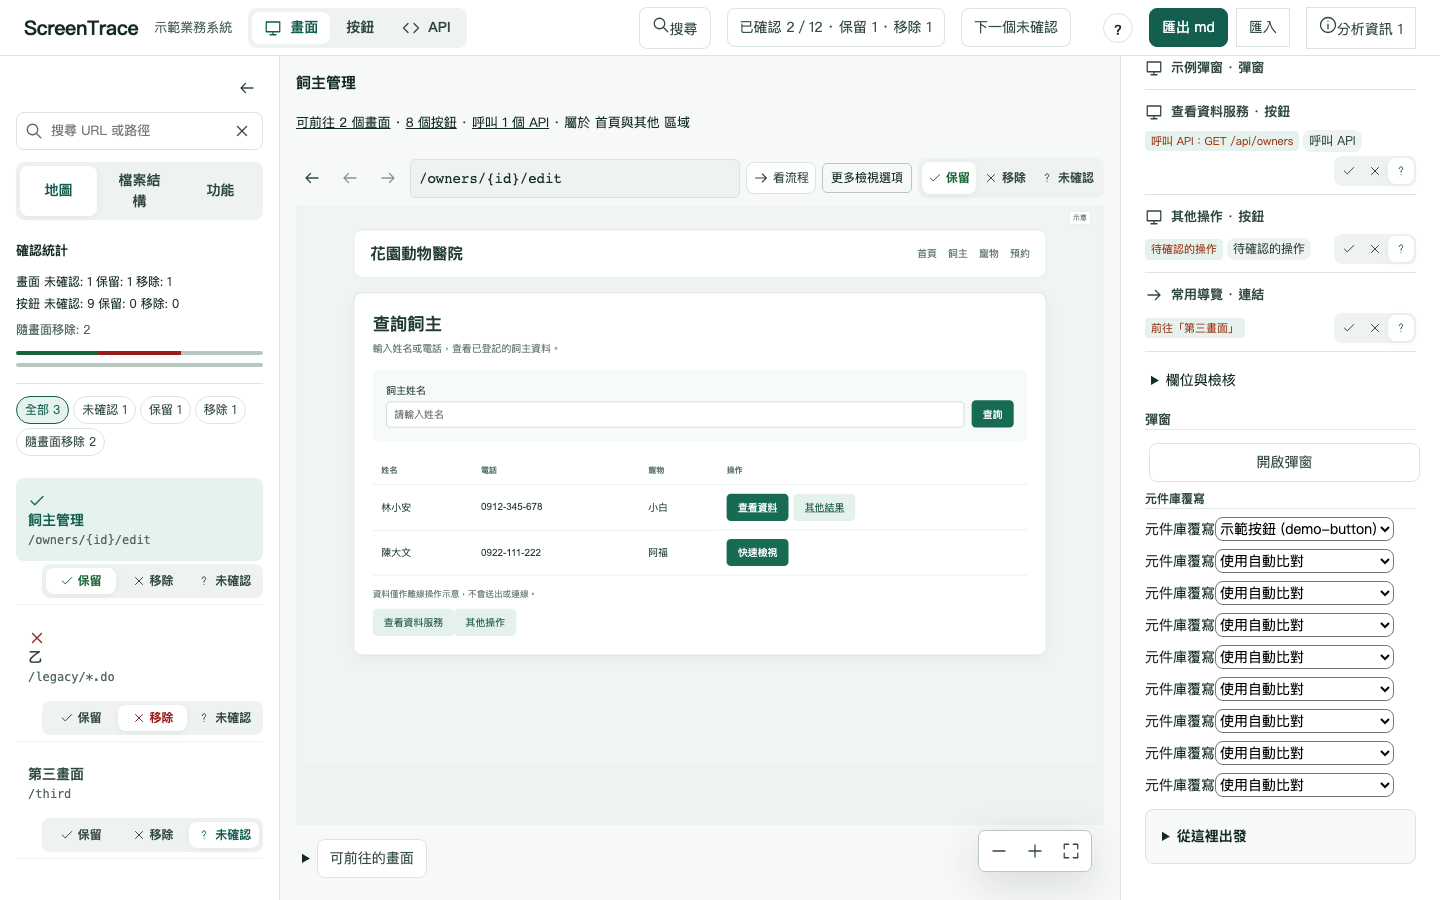
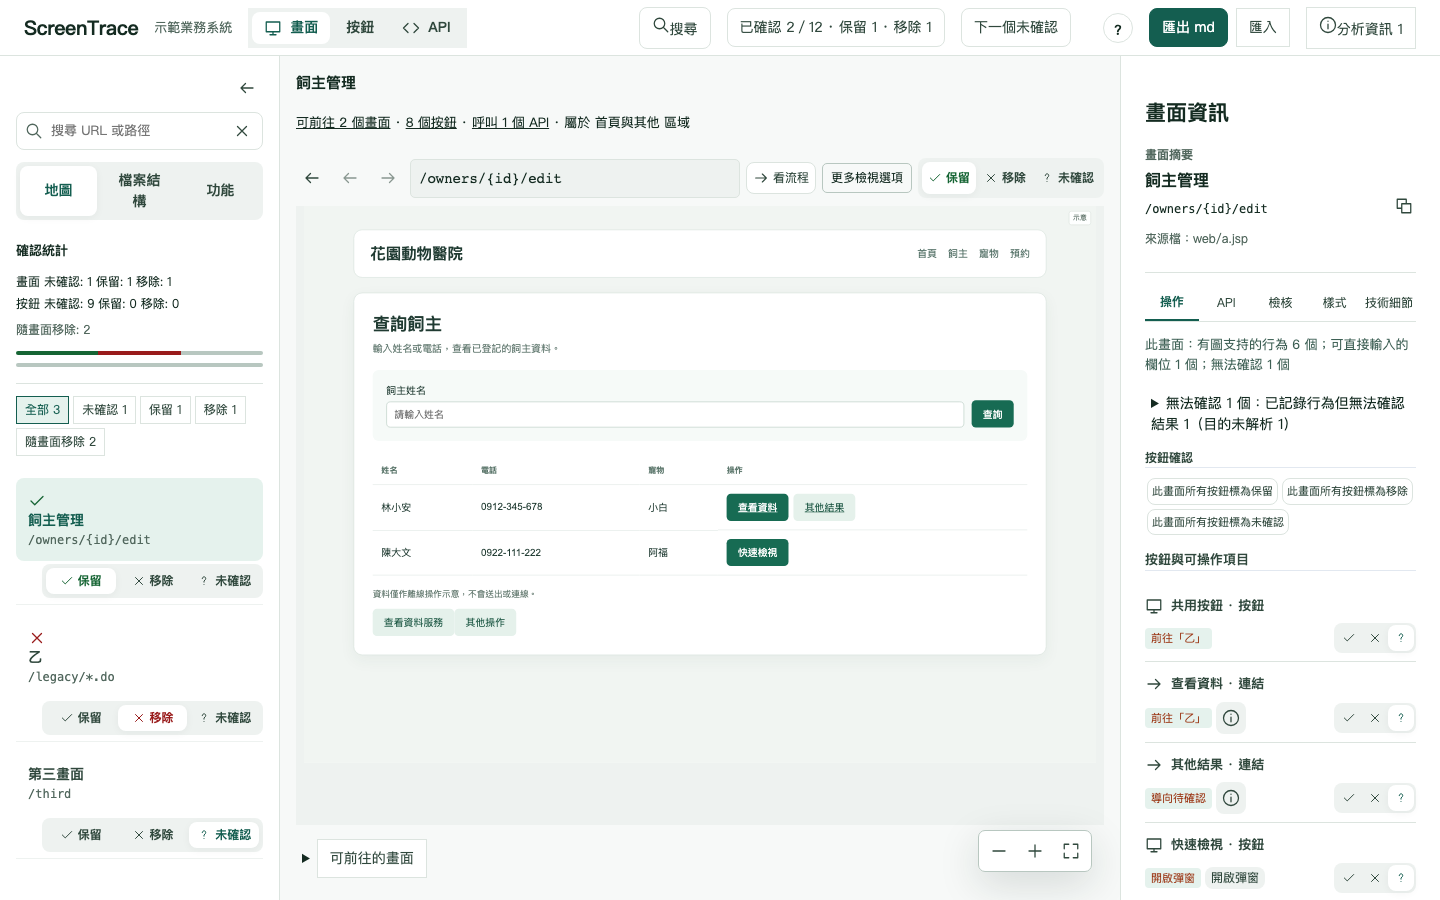
WP38: stabilize screenshots and flow tree
Reset scroll state and wait for fonts, previews, images, animations, and DOM quiet before guide captures; stabilize raster edges and verify byte-identical output. Render the flow outline as a bounded tree with one expansion per destination, merged unresolved outcomes, and readable trigger labels.

Validated with 10 consecutive guide-shots runs (20 PNGs each), viewer and capture suites, and mvn -B clean verify.

Changed region(s): [[0.7812, 0.0622, 1.0, 0.9956], [0.0312, 0.4356, 0.0625, 0.4667]]

diff --git a/screentrace-viewer/src/flow-outline.ts b/screentrace-viewer/src/flow-outline.ts
@@ -1,30 +1,57 @@
 import {Index} from './map';
 import {focusedRelations} from './relations';
 import {partitionNavigation} from './overview';
+import {Node} from './contracts';
+import {componentLabel,kindName} from './labels';
 import {element} from './text';
 
-export interface FlowOutlineNode {id:string;label:string;triggers:string[];children:FlowOutlineNode[];cycle:boolean;unresolved:boolean;more:number;overflow:FlowOutlineNode[]}
-export interface FlowOutline {root:string;depth:number;nodes:FlowOutlineNode[];more:number;overflow:FlowOutlineNode[]}
+export interface FlowOutlineNode {id:string;label:string;triggers:string[];children:FlowOutlineNode[];alreadyExpanded:boolean;unresolved:boolean;canNavigate:boolean;more:number;overflow:FlowOutlineNode[]}
+export interface FlowOutline {root:string;rootLabel:string;depth:number;nodes:FlowOutlineNode[];more:number;overflow:FlowOutlineNode[]}
 const order=(a:string,b:string)=>a<b?-1:a>b?1:0;
+const internalName=(value:string|undefined,id:string)=>!value||value===id||/^[a-z][a-z0-9]*(?:[-_][a-z0-9]+)+(?:\.[a-z0-9]+)?$/.test(value)||/^(?:表單|連結|按鈕|下拉選單|核取方塊|單選欄位|文字欄位|文字區域)\s*\d+$/.test(value);
+export const publicTriggerName=(value:string)=>{if(!internalName(value,''))return value;const type=/^(表單|連結|按鈕|下拉選單|核取方塊|單選欄位|文字欄位|文字區域)\s*\d+$/.exec(value);return type?`${type[1]}（所在畫面）`:'可操作項目（所在畫面）';};
 
-/** Stable, bounded tree of evidence-backed non-global navigation from a screen. */
+function triggerName(index:Index,id:string,fallback:number):string{
+ const node=index.nodes.get(id);if(!node)return '可操作項目';
+ const a=node.attributes,visible=[a.visibleText,a.displayName,(node as Node&{displayLabel?:string}).displayLabel,a['aria-label'],a.label,a.text,a.value,a.title]
+  .find(value=>typeof value==='string'&&!internalName(value,id)&&!/[\r\n]/.test(value));
+ const source=node.source,line=source?.line;
+ if(visible)return componentLabel({...node,name:String(visible),displayLabel:String(visible)},fallback);
+ if(!internalName(node.name,id)){const labels=new Set(['visibleText','displayName','aria-label','label','text','value','title','name','id']),attributes=Object.fromEntries(Object.entries(a).filter(([key,value])=>!(labels.has(key)&&internalName(value,id))));return componentLabel({...node,attributes},fallback);}
+ const screenOwners=(ownerId:string,seen=new Set<string>()):string[]=>{if(seen.has(ownerId))return[];seen.add(ownerId);const owner=index.nodes.get(ownerId);if(owner?.type==='SCREEN')return owner.name&&!internalName(owner.name,owner.id)?[owner.name]:[];return(index.owners.get(ownerId)||[]).flatMap(parent=>screenOwners(parent,seen));};
+ const ownerNames=[...new Set((index.owners.get(id)||[]).flatMap(owner=>screenOwners(owner)))],location=ownerNames.length?`畫面 ${ownerNames.join('、')}${line?`，第 ${line} 行`:''}`:`流程中的第 ${fallback} 個項目${line?`，第 ${line} 行`:''}`;
+ return `${kindName(node)}（${location}）`;
+}
+
+/** Stable, bounded tree of evidence-backed non-global navigation. Each destination is expanded once. */
 export function buildFlowOutline(index:Index,root:string,maxDepth=4,maxWidth=8):FlowOutline {
  const flows=partitionNavigation(index).flows,capDepth=Math.max(0,Math.min(4,Math.floor(maxDepth))),capWidth=Math.max(1,Math.min(8,Math.floor(maxWidth)));
- const label=(id:string)=>index.nodes.get(id)?.name||'無法確認的目的';
- const make=(screenId:string,depth:number,path:Set<string>):{nodes:FlowOutlineNode[];more:number;overflow:FlowOutlineNode[]}=>{
+ const screenLabel=(id:string)=>index.nodes.get(id)?.name||'無法確認的目的';
+ const triggerOrder=new Map<string,number>();
+ const components=[...index.owners.keys()].sort((a,b)=>{const x=index.nodes.get(a)?.source,y=index.nodes.get(b)?.source;return order(x?.file||'',y?.file||'')||(x?.line||0)-(y?.line||0)||order(a,b);});
+ components.forEach((id,i)=>triggerOrder.set(id,i+1));
+ const nameTriggers=(ids:string[])=>[...new Set(ids)].map(id=>triggerName(index,id,triggerOrder.get(id)||1)).sort(order);
+ const expanded=new Set<string>([root]);
+ const make=(screenId:string,depth:number):{nodes:FlowOutlineNode[];more:number;overflow:FlowOutlineNode[]}=>{
   if(depth>=capDepth)return {nodes:[],more:0,overflow:[]};
-  const known=flows.filter(relation=>relation.from===screenId).sort((a,b)=>order(label(a.to),label(b.to))||order(a.to,b.to));
+  const known=flows.filter(relation=>relation.from===screenId).map(relation=>({id:relation.to,label:screenLabel(relation.to),triggers:nameTriggers(relation.triggers),unresolved:false}));
   const unknown=focusedRelations(index,screenId).filter(relation=>relation.unresolved);
-  const rows=[...known.map(relation=>({id:relation.to,label:label(relation.to),triggers:relation.triggers.map(label).sort(order),unresolved:false})),...unknown.map(relation=>({id:relation.to,label:'無法確認的目的',triggers:relation.triggers.map(label).sort(order),unresolved:true}))].sort((a,b)=>order(a.label,b.label)||order(a.id,b.id)||order(a.triggers.join('\0'),b.triggers.join('\0')));
-  const build=(row:typeof rows[number]):FlowOutlineNode=>{const cycle=!row.unresolved&&path.has(row.id),childPath=new Set(path);childPath.add(row.id);const nested=!row.unresolved&&!cycle?make(row.id,depth+1,childPath):{nodes:[],more:0,overflow:[]};return {id:row.id,label:cycle?`${row.label}（回到已出現的畫面）`:row.label,triggers:row.triggers,children:nested.nodes,cycle,unresolved:row.unresolved,more:nested.more,overflow:nested.overflow};};
+  const rows=[...known];if(unknown.length)rows.push({id:`unresolved:${screenId}`,label:'無法確認的目的',triggers:nameTriggers(unknown.flatMap(relation=>relation.triggers)),unresolved:true});
+  rows.sort((a,b)=>order(a.label,b.label)||order(a.id,b.id)||order(a.triggers.join('\0'),b.triggers.join('\0')));
+  const build=(row:typeof rows[number]):FlowOutlineNode=>{
+   if(row.unresolved)return {id:row.id,label:row.label,triggers:row.triggers,children:[],alreadyExpanded:false,unresolved:true,canNavigate:false,more:0,overflow:[]};
+   const alreadyExpanded=expanded.has(row.id);if(!alreadyExpanded)expanded.add(row.id);
+   const nested=!alreadyExpanded?make(row.id,depth+1):{nodes:[],more:0,overflow:[]};
+   return {id:row.id,label:alreadyExpanded?`${row.label}（已在上面展開）`:row.label,triggers:row.triggers,children:nested.nodes,alreadyExpanded,unresolved:false,canNavigate:true,more:nested.more,overflow:nested.overflow};
+  };
   const all=rows.map(build);return {nodes:all.slice(0,capWidth),more:Math.max(0,rows.length-capWidth),overflow:all.slice(capWidth)};
  };
- const result=make(root,0,new Set([root]));return {root,depth:capDepth,nodes:result.nodes,more:result.more,overflow:result.overflow};
+ const result=make(root,0);return {root,rootLabel:screenLabel(root),depth:capDepth,nodes:result.nodes,more:result.more,overflow:result.overflow};
 }
 
 export function flowOutlineView(index:Index,root:string,onNavigate:(screenId:string)=>void):HTMLElement {
  const outline=buildFlowOutline(index,root),section=element('details',undefined,'flow-outline');section.dataset.flowOutline='true';const summary=element('summary','從這裡出發');section.append(summary);
- const list=element('ol',undefined,'flow-outline-list');
- const append=(parent:HTMLOListElement,node:FlowOutlineNode)=>{const row=element('li',undefined,'flow-outline-node');row.dataset.flowNode=node.id;const action=element('button',node.label,'flow-outline-link');action.disabled=node.unresolved||node.cycle;if(!action.disabled)action.onclick=()=>onNavigate(node.id);row.append(action);if(node.triggers.length)row.append(element('span',`—[${node.triggers.join('、')}]→`,'flow-outline-triggers'));if(node.children.length){const children=element('ol');for(const child of node.children)append(children,child);row.append(children);}if(node.more){const more=element('details',undefined,'flow-outline-more');more.append(element('summary',`還有 ${node.more} 個`));const rest=element('ol');for(const child of node.overflow)append(rest,child);more.append(rest);row.append(more);}parent.append(row);};
- for(const node of outline.nodes)append(list,node);if(outline.more){const more=element('details',undefined,'flow-outline-more');more.append(element('summary',`還有 ${outline.more} 個`));const rest=element('ol');for(const node of outline.overflow)append(rest,node);more.append(rest);list.append(more);}if(!outline.nodes.length)list.append(element('li','沒有已知流程'));section.append(list);return section;
+ const tree=element('ol',undefined,'flow-outline-tree'),rootNode=element('li',undefined,'flow-outline-root');rootNode.dataset.flowRoot=outline.root;rootNode.append(element('strong',outline.rootLabel));const children=element('ol',undefined,'flow-outline-list');
+ const append=(parent:HTMLOListElement,node:FlowOutlineNode)=>{const row=element('li',undefined,'flow-outline-node');row.dataset.flowNode=node.id;if(node.unresolved)row.dataset.unresolved='true';if(node.alreadyExpanded)row.dataset.alreadyExpanded='true';const action=element('button',node.label,'flow-outline-link');action.disabled=!node.canNavigate;if(node.canNavigate)action.onclick=()=>onNavigate(node.id);row.append(action);if(node.triggers.length)row.append(element('span',`由「${node.triggers.map(publicTriggerName).join('、')}」前往`,'flow-outline-triggers'));if(node.children.length){const nested=element('ol');for(const child of node.children)append(nested,child);row.append(nested);}if(node.more){const more=element('details',undefined,'flow-outline-more');more.append(element('summary',`還有 ${node.more} 個`));const rest=element('ol');for(const child of node.overflow)append(rest,child);more.append(rest);row.append(more);}parent.append(row);};
+ for(const node of outline.nodes)append(children,node);if(outline.more){const more=element('details',undefined,'flow-outline-more');more.append(element('summary',`還有 ${outline.more} 個`));const rest=element('ol');for(const node of outline.overflow)append(rest,node);more.append(rest);children.append(more);}if(!outline.nodes.length)children.append(element('li','沒有已知流程'));rootNode.append(children);tree.append(rootNode);section.append(tree);return section;
 }

diff --git a/docs/reports/R10.md b/docs/reports/R10.md
@@ -149,11 +149,11 @@ ADR：[0057 全站導覽語意身份](../adr/0057-global-navigation-semantic-ide
 
 全域搜尋可由頂列按鈕或 `Ctrl／⌘＋K` 開啟，分組搜尋畫面名稱／URL、按鈕與 API 方法／路徑；選取後跳轉並標示目標。為保留既有操作，`/` 繼續聚焦畫面清單搜尋欄；API 畫面上則聚焦 API 篩選欄。首次引導採逐步、非阻擋卡片；完成或略過會寫瀏覽器暫存，暫存不可讀寫時每次開啟仍顯示。頂列「?」說明可重新開啟引導，並列出快捷鍵、操作方式與狀態圖例；引導本身不寫入 review 決策。
 
-流程樹單元測試覆蓋決定性、深度與寬度上限、超出清單展開、循環、共用觸發器的多個目的、未解析目的與排除全站導覽。Chromium `file://` E2E 實際完成三類搜尋、按鈕與畫面跳轉、高亮、API 選取、流程節點跳轉、四步引導略過及重新開啟；另一測試封鎖 `localStorage`，確認本次略過後重新載入仍顯示引導。合成報表的外部請求仍為 0，無新增執行期相依。
+流程樹單元測試覆蓋決定性、深度與寬度上限、超出清單展開、目的畫面只完整展開一次、可點選的回訪節點、共用觸發器、合併的未解析目的與排除全站導覽。Chromium `file://` E2E 實際完成三類搜尋、按鈕與畫面跳轉、高亮、API 選取、流程節點跳轉、四步引導略過及重新開啟；另一測試封鎖 `localStorage`，確認本次略過後重新載入仍顯示引導。合成報表的外部請求仍為 0，無新增執行期相依。
 
-PetClinic 單檔報表以 Chromium `file://` 在 1440×900 實際開啟：首次引導出現在右下角，畫面清單搜尋與全域搜尋快捷鍵分開，頁面沒有對外請求。搜尋「Owner」得到 7 個畫面、14 個按鈕、14 個 API 結果。由 Owners List 展開流程大綱，可看到 Owner Details、飼主／寵物／就診表單及「無法確認的目的」；已知目的可點選前往。此畫面的分層流程內容較密集，重複顯示循環路徑和觸發器；超過寬度的候選仍需展開「還有 N 個」。說明浮層列出 `/` 的畫面清單搜尋、`Ctrl／⌘＋K` 的全域搜尋和決策快捷鍵。
+PetClinic 單檔報表以 Chromium `file://` 在 1440×900 實際開啟：首次引導出現在右下角，畫面清單搜尋與全域搜尋快捷鍵分開，頁面沒有對外請求。搜尋「Owner」得到 7 個畫面、14 個按鈕、14 個 API 結果。Owners List 的流程大綱以縮排樹先展開 Owner Details、Create Or Update Owner Form、Create Or Update Pet Form 與 Create Or Update Visit Form；後續重複目的顯示「已在上面展開」且可跳轉，未解析目的各合併成單一節點。Chromium 畫面中 Owners List 的無可讀連結標籤顯示為「連結（所在畫面）」；表單觸發器顯示為「表單（畫面 Create Or Update Owner Form，第 13 行）」等位置描述，沒有再出現「連結 6」或表單內部名稱。每層仍最多 8 個項目、最多 4 層，溢出項目可展開查看。說明浮層列出 `/` 的畫面清單搜尋、`Ctrl／⌘＋K` 的全域搜尋和決策快捷鍵。
 
-本次 PetClinic 實際分析仍為 19 個 endpoint、10 個畫面、92 個元件；單一 HTML 為 3,673,111 bytes，較 WP37 的 3,662,621 bytes 增加 10,490 bytes（0.29%）。本次不重新執行 eMusicStore，故不報其數字。`npm --prefix screentrace-viewer run guide-shots` 最終程式連跑三次：既有的 `confirmation-dashboard.png`、`coverage.png` 與 `simulate-submit.png` 在三次之間呈兩種交替雜湊，原因未查明；不宣稱整套截圖可重現。新增四張 WP38 截圖在三次都維持相同雜湊：
[1 lines of base64/hex data omitted]
 
[2 lines of base64/hex data omitted]

diff --git a/docs/adr/0063-wp38-deterministic-shots-and-flow-tree.md b/docs/adr/0063-wp38-deterministic-shots-and-flow-tree.md
@@ -1,0 +1,21 @@
+# ADR 0063：WP38 截圖穩定與流程樹去重
+
+狀態：Accepted
+
+## 決定
+
+指南截圖在擷取前將主文件與 iframe 內所有可捲動區域重設到原點，並以明確狀態條件等待應用程式、字型、圖片與預覽完成；動畫停止且文件連續 16 個動畫影格沒有 DOM 變更後才截圖。截圖用的樣式隱藏捲軸、固定 SVG 線段光柵方式，並將少數有抗鋸齒邊界的卡片、狀態籤與原型目的按鈕改成方角，以避免瀏覽器合成層在相同狀態下產生一像素顏色變化。截圖再連續擷取至兩張相鄰畫面逐像素相同。所有截圖仍列入決定性檢查，不因偶發差異而排除。
+
+流程大綱以縮排樹呈現。每個可證明的目的畫面僅遞迴展開一次；後續參照以「（已在上面展開）」標示並可點選跳轉。來源畫面中的未解析目的合併為一個節點並列出全部觸發按鈕。觸發名稱沿用 R5 可讀名稱規則；若只有內部識別名稱，改用元件類型與所在畫面、行號描述。渲染層再做一次標籤白名單檢查，讓圖內舊版的「連結 6」等預設名稱不會漏到報表。深度與寬度限制不變。
+
+## 證據與測試
+
+- 紅測試先於實作提交：`2b26c19` 鎖定目的畫面只完整展開一次、未解析目的合併、內部名稱不出現在樹中；舊實作在「目的畫面展開次數為 1」斷言得到 2 時失敗。
+- `758d626` 先加入延遲 iframe 的截圖就緒紅測試；原實作因缺少 `waitForGuideScreenshotReady` 匯出而失敗。實作後測試另確認延遲預覽完成與擷取前捲動位置歸零。
+- `wp38-flow-outline.test.mjs` 將一處既有斷言由「回到已出現的畫面」改為「已在上面展開」。舊預期描述循環列，會鼓勵逐條重複畫面；新預期符合只展開一次並提供跳轉的需求。
+- PetClinic 實際報表曾顯示舊圖中的預設名稱「連結 6」；新增渲染層的防漏檢查後，Chromium `file://` 實測顯示「連結（所在畫面）」，表單則顯示畫面名稱與行號。此名稱例外不會影響已有人類可讀名稱的觸發按鈕。
+- Chromium `file://` E2E 驗證回訪節點可跳轉、未解析觸發按鈕合併、無可讀名稱改用「按鈕／連結（畫面名稱、第 N 行）」，且內部名稱未出現在可見文字中。
+
+## 截圖差異根因
+
+`guide-shots` 在同一個頁面依序切換地圖、功能、按鈕、預覽與資訊面板；各模式的側欄共用可捲動區域。功能區截圖因此會繼承先前互動留下的捲動位置。特定輪次中捲動區位於頂端，其他輪次則保留舊位置；瀏覽器已完成圖片、字型與 DOM 更新仍不足以消除此差異。捲動歸零後，少數差異只剩卡片／狀態籤圓角與 SVG 細線的邊緣像素，故截圖專用樣式固定了這些易受抗鋸齒影響的邊緣。沒有時間戳或隨機值參與指南畫面。

diff --git a/docs/USER_GUIDE.md b/docs/USER_GUIDE.md
@@ -40,7 +40,7 @@
 
 ### 流程大綱、全域搜尋與首次引導
 
-在畫面資訊欄展開「從這裡出發」，可依已知流程逐層查看按鈕與目的畫面；點目的畫面即可前往。歧義候選會分別列出，無法確認的目的會明確標示；清單過長時可展開「還有 N 個」。功能區域卡片也提供同一份流程大綱。
+在畫面資訊欄展開「從這裡出發」，會以縮排樹列出已知流程；每個目的畫面只完整展開一次，再次遇到時會標示「已在上面展開」，點選可跳到該畫面。無法確認的目的會合併成一個節點，列出所有觸發按鈕。按鈕使用可讀名稱；沒有可讀名稱時會以按鈕類型和所在畫面、行號說明。清單過長時可展開「還有 N 個」。功能區域卡片也提供同一份流程大綱。
 
 ![從畫面展開的流程大綱](images/user-guide/flow-outline.png)
 
